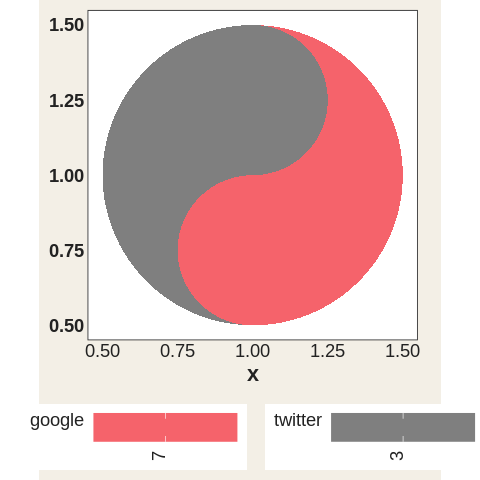
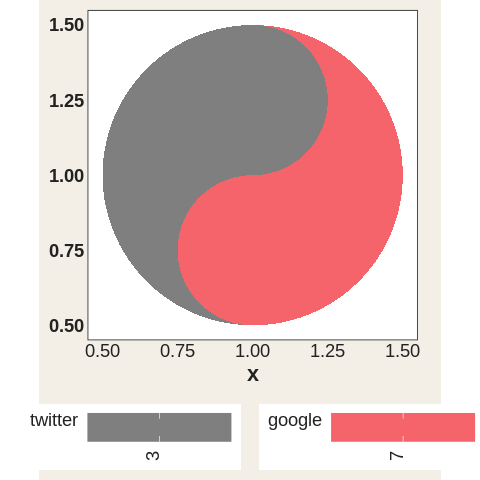
fix: correct six lingering problems in 0.3.0 before release
An audit of 0.3.0 against its own documentation. None of this has been in a
CRAN release, so all of it is correction rather than breaking change.

Legend order was not deterministic
----------------------------------
Both auto-built fill guides were left at ggplot2's default `order`, and the
tie was broken by something that is not stable across R sessions: the same
plot, package and ggplot2 could put yin first in one render and yang first in
the next. One of the committed vdiffr references had recorded the wrong
order, which is how this surfaced -- eight snapshots failed while a ninth,
recorded in an unlucky session, passed. Yin is now pinned before yang. An
explicit `guide` through `...` still wins and `shared_legend` still drops the
yang guide; both are now tested.

vignette("animations") never rendered a frame
---------------------------------------------
Every animate() call in it was commented out because gifski is absent on some
check machines, and since building a gganim object succeeds whether or not
the transition works, nothing noticed the geom was collapsing every animation
to one frame. The calls now execute through gganimate::file_renderer(), which
needs no gifski and no system libraries, and emit a GIF on top of that where
gifski exists. gifski joins Suggests so the call is declared.

Four smaller corrections
------------------------
- palette = "print_safe" -> "greyscale_safe". The preset guarantees the two
[…]

Changed region(s): [[0.0625, 0.8438, 1.0, 1.0]]

diff --git a/NEWS.md b/NEWS.md
@@ -76,7 +76,7 @@ Nothing about the default appearance changes.
   the same visual weight.
 - **`palette =`** on `geom_taichi()` selects a ready-made pair:
   `"balanced"` (the recommended one), `"diverging"`, `"viridis_pair"`,
-  `"brewer_pair"`, `"print_safe"` (a grey ramp and a hued ramp on the same
+  `"brewer_pair"`, `"greyscale_safe"` (a grey ramp and a hued ramp on the same
   luminance trajectory, so the figure survives greyscale printing), or
   `"default"`. **`taichi_palette()`** returns any of them for inspection.
 - **The defaults do not change.** Every existing figure is unaffected. The
@@ -160,6 +160,51 @@ arguments.
   `#00000000`. A fully transparent `paper` now falls back to white (and a
   transparent `ink` to black), which also stops the fallback fill being mixed
   towards transparency instead of towards the page.
+
+## Fixes and corrections in this cycle
+
+Found by auditing 0.3.0 against its own documentation before release. None of
+these has appeared in a CRAN release, so all are corrections rather than
+breaking changes.
+
+- **The yin and yang legends could swap places between sessions.** Both
+  auto-built fill guides were left at ggplot2's default `order`, and the tie
+  was broken by something that is not stable across R sessions: the same plot,
+  the same package and the same ggplot2 could put yin first in one render and
+  yang first in the next. One of the committed vdiffr references had in fact
+  recorded the wrong order, which is how it was found. Yin is now pinned
+  before yang, matching the argument order and every example in the
+  documentation. An explicit `guide` passed through `...` still wins, and
+  `shared_legend` still drops the yang guide.
+- **`vignette("animations")` now really renders its animations.** Every
+  `animate()` call in it was commented out, because gifski is not installed on
+  every check machine — and since building a `gganim` object succeeds whether
+  or not the transition works, nothing ever noticed that the geom was
+  collapsing every animation to a single frame. The calls now execute through
+  `gganimate::file_renderer()`, which needs no gifski and no system libraries,
+  and emit a GIF on top of that wherever gifski exists. A demonstration that is
+  never run is not a demonstration.
+- **`palette = "print_safe"` is renamed `"greyscale_safe"`.** The preset
+  guarantees that the two ramps collapse to the same ink in *greyscale*; it
+  says nothing about the CMYK gamut, which is what most readers understand by
+  "print safe". The name over-promised. Renamed now because the preset is new
+  in this cycle and has never been released.
+- **`explicit_channel = "radius"` gains `radius_exponent`, defaulting to
+  0.57.** The radius was scaled by `sqrt()` — strict area scaling — which was a
+  silent choice. Cartography's answer for proportional symbols is the
+  apparent-magnitude (Flannery) exponent of about 0.57, because readers
+  systematically underestimate the area ratio between large and small circles.
+  `radius_exponent = 0.5` restores the previous behaviour.
+- **`taichi_check_palette()` now names the colour space it measured in.**
+  Every number it prints is space-dependent and none of them said so, which
+  made them impossible to check against another tool.
+- **`taichi_summary()` documents a caveat on `rank`.** The widest gap in a
+  96-cell grid is frequently the largest noise; `rank` lists places to look,
+  not findings.
+- **`geom_taichi()` documents two things the mark cannot do.** A sequential
+  discrete palette asserts an ordering, which suits an ordered factor and
+  overstates an unordered one; and putting time on `x` encodes the series in
+  fill rather than position, so slope is not encoded at all.
 
 ## Deprecations and notes
 

diff --git a/tests/testthat/_snaps/messages.md b/tests/testthat/_snaps/messages.md
@@ -75,6 +75,7 @@
       
         largest luminance mismatch : 40.6 L* (tolerance 5.0)
         largest chroma mismatch    : 78.1
+        measured in                : CIE Lab (L*, C*ab), CIE2000 distances
         how far apart the ramps stay (median distance, step for step)
             normal       27.2  
             deutan       20.9  
@@ -106,6 +107,7 @@
       
         largest luminance mismatch : 0.8 L* (tolerance 5.0)
         largest chroma mismatch    : 1.5
+        measured in                : CIE Lab (L*, C*ab), CIE2000 distances
         how far apart the ramps stay (median distance, step for step)
             normal       26.4  
             deutan       27.7  
@@ -162,7 +164,7 @@
       geom_taichi(yin = a, yang = b, palette = 42)
     Condition
       Error in `as_palette_pair()`:
-      ! `palette` must be one of "default", "balanced", "diverging", "viridis_pair", "brewer_pair", "print_safe", or a list with `yin` and `yang` colour vectors (see `taichi_palette_pair()`).
+      ! `palette` must be one of "default", "balanced", "diverging", "viridis_pair", "brewer_pair", "greyscale_safe", or a list with `yin` and `yang` colour vectors (see `taichi_palette_pair()`).
 
 ---
 
